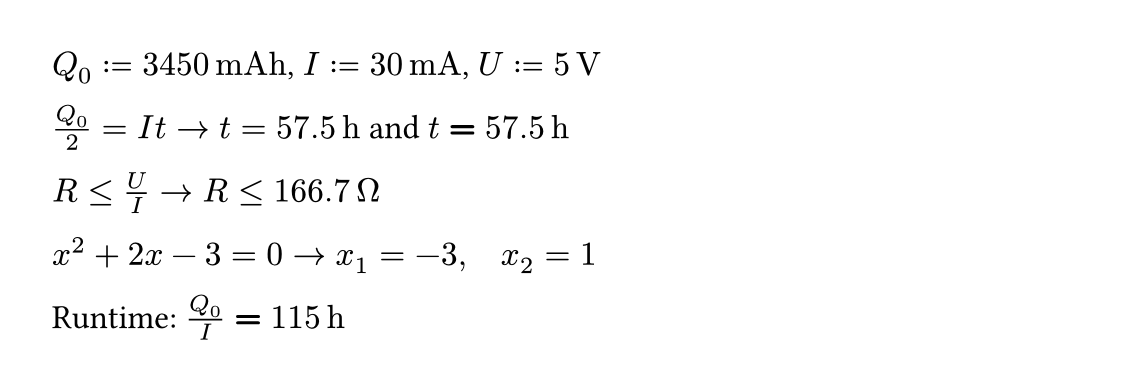
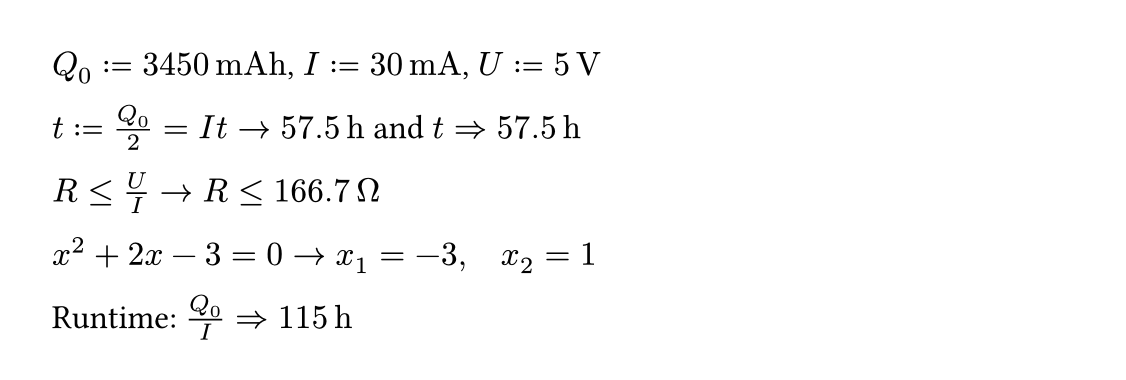
fix(editor): describe solve as showing solutions without defining them
The editor's solve hover, the basics example and a graph comment still
assumed the v1 behaviour; the solving fixture checks the kept unit again.

Changed region(s): [[0.0311, 0.2895, 0.5284, 0.4053], [0.2176, 0.7816, 0.3108, 0.8684]]

diff --git a/editor/ide/src/clause.rs b/editor/ide/src/clause.rs
@@ -8,7 +8,7 @@ use crate::text::{is_letter, sub};
 /// The modifiers, by their name in the `modifiers` module, with what they do.
 pub(crate) const KEYWORDS: &[(&str, &str)] = &[
     ("assume", "assume(a in RR, x > 0, …): local real and sign assumptions for this symbolic calculation"),
-    ("solve", "solve(x, …): solves the equation for these names and defines them"),
+    ("solve", "solve(x, …): solves the equation for these names without defining them; x := … -> solve(x) keeps them"),
     ("substitute", "substitute(x, #c, …): the result with these variables' formulas and constants' expressions put in, other names kept"),
     ("simplify", "the symbolic result, with the known values put in; of an equation, where it holds"),
     ("expand", "the symbolic result multiplied out, (x + 1)² → x² + 2x + 1"),

diff --git a/core/src/graph.rs b/core/src/graph.rs
@@ -368,7 +368,7 @@ fn case_boundaries(e: &Expr, x: &str, scale: f64, points: &mut Vec<f64>, edges: 
 }
 
 /// The curves of a graph and what they're plotted against. When nothing varies, but the curves write exactly one
-/// name with a value (f after `S_1(f) = 1/2 -> solve(f)`), the graph is over that name, as a curve's written
+/// name with a value (f after `f := 2 kHz`), the graph is over that name, as a curve's written
 /// parameter is (`S(f) = S_1(f)`), whatever it means outside.
 fn read(env: &Env, req: &GraphReq, units: &Units) -> Result<Read, String> {
     let err = match read_over(env, req, units, &BTreeSet::new()) {
